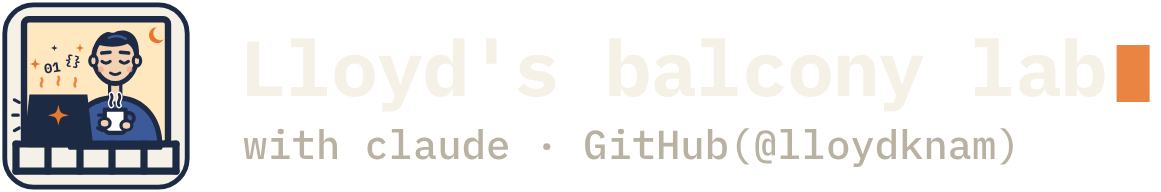
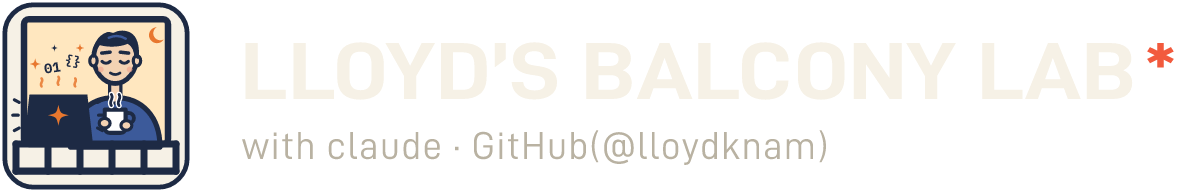
Replace credit lockup with D-DIN 'LLOYD'S BALCONY LAB*' version
Claude-Session: https://claude.ai/code/session_01HM4WSqxcTw1NqR2pkqMGmu

diff --git a/index.html b/index.html
@@ -268,7 +268,7 @@ details.all[open] summary::before{content:"－ ";}
     <article class="card" id="card" aria-live="polite"></article>
   </section>
 </main>
-<footer class="ft"><a class="lab" href="https://github.com/lloydknam" target="_blank" rel="noopener" title="GitHub(@lloydknam)"><img src="assets/brand/lockup-light.svg" alt="Lloyd's balcony lab · with claude · GitHub(@lloydknam)" height="48"></a><div><a class="hits" href="https://hits.sh/lloydknam.github.io/life-stats/" aria-label="방문자 수"><img src="https://hits.sh/lloydknam.github.io/life-stats.svg?view=today-total&amp;style=flat-square&amp;label=%EC%98%A4%EB%8A%98%20%2F%20%EC%A0%84%EC%B2%B4%20%EB%B0%A9%EB%AC%B8&amp;color=%23135f8c&amp;labelColor=%234a5057" alt="방문자 수" height="20" loading="lazy"></a></div></footer>
+<footer class="ft"><a class="lab" href="https://github.com/lloydknam" target="_blank" rel="noopener" title="GitHub(@lloydknam)"><img src="assets/brand/lockup-light.svg" alt="Lloyd's Balcony Lab · with claude · GitHub(@lloydknam)" height="48"></a><div><a class="hits" href="https://hits.sh/lloydknam.github.io/life-stats/" aria-label="방문자 수"><img src="https://hits.sh/lloydknam.github.io/life-stats.svg?view=today-total&amp;style=flat-square&amp;label=%EC%98%A4%EB%8A%98%20%2F%20%EC%A0%84%EC%B2%B4%20%EB%B0%A9%EB%AC%B8&amp;color=%23135f8c&amp;labelColor=%234a5057" alt="방문자 수" height="20" loading="lazy"></a></div></footer>
 <style>
 .ft{max-width:1640px;margin:0 auto;padding:18px 24px 30px;text-align:center;font-size:14px;color:var(--mute);border-top:1px solid var(--line)}
 .ft .lab{display:inline-block;border-radius:10px;padding:6px 10px;transition:background .15s}.ft .lab:hover{background:var(--hi-bg)}

diff --git a/assets/brand/README.md b/assets/brand/README.md
@@ -1,11 +1,11 @@
-# Lloyd's balcony lab — 브랜드 키트
+# Lloyd's Balcony Lab — 브랜드 키트
 
 모든 개인 프로젝트(GitHub 레포·사이트·영상) 하단 크레딧에 공통으로 쓰는 로고 모음입니다.
 
 | 파일 | 용도 |
 |---|---|
 | `mark.svg`, `mark-512.png` | 마크(베란다에서 커피 마시는 나 + 열일하는 AI 노트북) |
-| `lockup-light.svg/.png` | 밝은 배경용 가로형 로고: Lloyd's balcony lab / with claude · GitHub(@lloydknam) |
+| `lockup-light.svg/.png` | 밝은 배경용 가로형 로고: LLOYD'S BALCONY LAB* / with claude · GitHub(@lloydknam) |
 | `lockup-dark.svg/.png` | 어두운 배경용 가로형 로고 |
 | `favicon.svg`, `favicon-32.png`, `apple-touch-icon.png` | 작은 크기용 단순형(창틀 + AI 노트북) |
 
@@ -14,14 +14,14 @@
 사이트 하단(HTML):
 
 ```html
-<a href="https://github.com/lloydknam"><img src="https://lloydknam.github.io/life-stats/assets/brand/lockup-light.svg" alt="Lloyd's balcony lab · with claude · GitHub(@lloydknam)" height="48"></a>
+<a href="https://github.com/lloydknam"><img src="https://lloydknam.github.io/life-stats/assets/brand/lockup-light.svg" alt="Lloyd's Balcony Lab · with claude · GitHub(@lloydknam)" height="48"></a>
 ```
 
 README(마크다운):
 
 ```markdown
-[![Lloyd's balcony lab](https://lloydknam.github.io/life-stats/assets/brand/lockup-light.png)](https://github.com/lloydknam)
+[![Lloyd's Balcony Lab](https://lloydknam.github.io/life-stats/assets/brand/lockup-light.png)](https://github.com/lloydknam)
 ```
 
-색: 먹색 `#1d2a44`, 종이색 `#f6f1e6`, 주황 `#e8772e`, 방 불빛 `#ffe7bf`, 스웨터 파랑 `#3c5a9a`
-글꼴: IBM Plex Mono(글자는 SVG 안에서 윤곽선으로 변환되어 있어 글꼴 설치 불필요)
+색: 먹색 `#1d2a44`, 종이색 `#f6f1e6`, 주황 `#e8772e`, 방 불빛 `#ffe7bf`, 스웨터 파랑 `#3c5a9a`, 별표 붉은 주황 `#E2452B`(어두운 배경 `#F25A3D`)
+글꼴: D-DIN Pro Bold(가로 115% 확장, 대문자) + D-DIN Pro Regular(부제). 글자는 SVG 안에서 윤곽선으로 변환되어 있어 글꼴 설치 불필요
